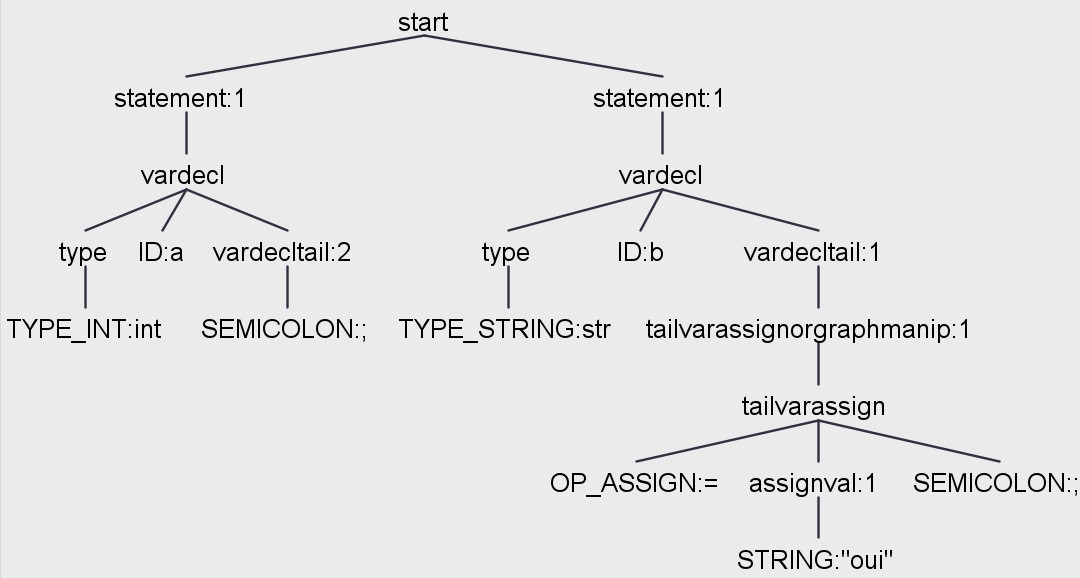
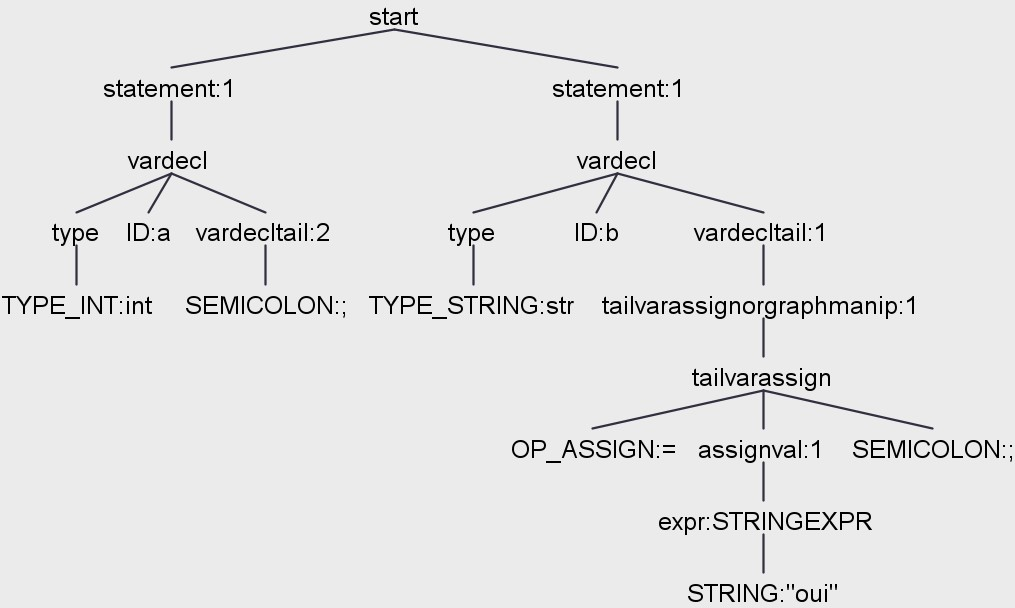
Changes to the grammar section

Changed region(s): [[0.3665, 0.3114, 1.0, 0.9965], [0.0, 0.0, 0.6719, 0.5917], [0.4887, 0.2491, 0.6719, 0.4671]]

diff --git a/sections/chapters/sands/grammar.tex b/sections/chapters/sands/grammar.tex
@@ -29,14 +29,14 @@ Statements can be variable declarations, variable assignments, graph manipulatio
 A variable is declared by writing its type followed by its name.
 After the variable declarations the statement can end with a semicolon or there can be a value assigned to the variable or a graph context can be opened.
 
-There need to be a global production rule for variable assignment, graph manipulation and relation statements because all three of those statements start with a variable identifier so having the rules be fully separated would mean that the grammar isn't LL(1).
+There needs to be a global production rule for variable assignment, graph manipulation and relation statements because all three of those statements start with a variable identifier so having the rules be fully separated would mean that it is not possible to know which production rule to apply with a look-ahead of only one token, which is necessary for the ANTLR tool to generate the parser.
 Once the variable for which we are writing the statement is specified, the rest of the statement can either correspond to an assignment, a block of code in a graph context or a relation statement.
 
 \begin{align*}
     \omit $\mathit{VarDecl}$ \hfil& \rightarrow \mathit{Type} \: \text{varId} \: \mathit{VarDeclTail} \\
     \omit $\mathit{VarDeclTail}$ \hfil & \rightarrow \mathit{TailVarAssignOrGraphManip} \\
     & \mid \text{semicolon} \\
-    \omit $\mathit{VarAssignOrGraphManip}$\hfil & \rightarrow \text{varId} \: \mathit{TailVarAssignOrGraphManip} \\
+    \omit $\mathit{VarAssignOrGraphManipOrAddRel}$\hfil & \rightarrow \text{varId} \: ( \mathit{TailVarAssignOrGraphManip} |  \mathit{TailAddRel})\\
     \omit $\mathit{TailVarAssignOrGraphManip}$ & \rightarrow \mathit{TailVarAssign} \\
     & \mid  \mathit{TailGraphManip}\ \\
     \omit $\mathit{Type}$ \hfil & \rightarrow \text{typeString} \\
@@ -49,20 +49,19 @@ Once the variable for which we are writing the statement is specified, the rest 
 
 \begin{figure}[H]
     \centering
-    \includegraphics[height = 5cm]{figures/parse_trees/parseTree_varDecl}
+    \includegraphics[height = 5.5cm]{figures/parse_trees/parseTree_varDecl}
     \caption{The parse tree for the statements \texttt{int a;
     str b = "oui";}}
     \label{fig:parseTree_varDecl}
 \end{figure}
 
 \subsubsection*{Variable assignment and arithmetic expressions}
-To assign a value to a variable, the variable name needs to be followed by the assignment operator and then the assigned value, which can be a string, a boolean value, an arithmetic expression with variables, numbers and function calls or simply a function call, a number or another variable.
+To assign a value to a variable, the variable name needs to be followed by the assignment operator and then the assigned value, which can be an arithmetic expression with variables, numbers, strings and function calls or a boolean expression.
 
 \begin{align*}
     \omit $\mathit{TailVarAssign}$ \hfil & \rightarrow \text{opAssign} \: \mathit{AssignVal} \: \text{semicolon} \\
-    \omit $\mathit{AssignVal}$ \hfil & \rightarrow \text{string} \\
-    & \mid \mathit{Expr} \\
-    & \mid \mathit{BoolVal}\\
+    \omit $\mathit{AssignVal}$ \hfil & \mid \mathit{Expr} \\
+    & \mid \mathit{BoolExpr}\\
     \omit $\mathit{Expr}$ \hfil & \rightarrow \text{opSub} \: \mathit{Expr} \\
     & \mid \mathit{Expr} \: \mathit{MulOp} \: \mathit{Expr} \\
     & \mid \mathit{Expr} \: \mathit{AddOp} \: \mathit{Expr} \\
@@ -71,8 +70,7 @@ To assign a value to a variable, the variable name needs to be followed by the a
     & \mid \text{varId} \\
     & \mid \mathit{FuncCall} \\
     & \mid \text{KeywordFmap} \: \text{varId} \: \text{varId} \\
-    \omit $\mathit{BoolVal}$ \hfil & \rightarrow \text{keywordTrue} \\
-    & \mid \text{keywordFalse} \\
+    & \mid \text{string} \\
     \omit $\mathit{Number}$ \hfil & \rightarrow \text{integer} \\
     & \mid \text{floatLit} \\
     \omit $\mathit{AddOp}$ \hfil & \rightarrow \text{opAdd} \\
@@ -84,12 +82,12 @@ To assign a value to a variable, the variable name needs to be followed by the a
 \captionedgrammar{Rules for variable assignment and arithmetic expressions}
 
 This definition of the grammar has a lot of rules but doesn't allow the precedence of arithmetic operations to be handled during the building of the parse tree and makes the grammar ambiguous.
-However, those rules allow us to have the desired behavior when we use the tool we have chosen for the implementation (\ref{TODO}).
+However, those rules allow us to have the desired behavior when we use the ANTLR recognizer because the different possibilities don't have the same priority, instead the order in which they appear defines the order of priority.
 
 \begin{figure}[H]
     \centering
-    \includegraphics[height = 8cm]{figures/parse_trees/parseTree_varAssign}
-    \caption{The parse tree for a variable assignment :  \texttt{a = 4 + (5-2-4)*n;} \\The tool used handled the operation precedence.}
+    \includegraphics[height = 9cm]{figures/parse_trees/parseTree_varAssign}
+    \caption{The parse tree for a variable assignment :  \texttt{a = 4 + (5-2-4)*n;} \\The ANTLR recognizer used handled the operation precedence.}
     \label{fig:parseTree_varAssign}
 \end{figure}
 
@@ -108,7 +106,7 @@ Those might be graph-specific operations such as referencing or cloning a variab
 
 \begin{figure}[H]
     \centering
-    \includegraphics[height = 3.5cm]{figures/parse_trees/parseTree_graphManip}
+    \includegraphics[height = 5.5cm]{figures/parse_trees/parseTree_graphManip}
     \caption{The parse tree for some simple graph operations. The code parsed is \texttt{g\{
         ref a;
         ref b;
@@ -131,13 +129,30 @@ The if-else statement structure is quite classic.
 After the \texttt{if} keyword, a boolean expression is specified between parenthesis and then the block of code to execute is written between curly brackets.
 The following else clause is optional.
 
-\begin{lstlisting}[caption={test},captionpos=b, label={lst:teststuff}]
-    IfBlock
-\end{lstlisting}
+\begin{align*}
+    \omit $\mathit{IfBlock}$ \hfil &\rightarrow \mathit{IfClause} \: [\mathit{ElseClause}] \\
+    \omit $\mathit{IfClause}$ \hfil &\rightarrow \text{keywordIf} \: \text{leftParen} \: \mathit{BoolExpr} \: \text{rightParen} \: \text{leftBrace} \: \{ \mathit{statement}\} \: \text{rightBrace} \\
+    \omit $\mathit{ElseClause}$ \hfil &\rightarrow \text{keywordElse} \: \text{leftBrace} \: \{ \mathit{statement} \} \: \text{rightBrace} \\
+    \omit $\mathit{BoolExpr}$ \hfil &\rightarrow \text{opBNot} \: \mathit{BoolExpr} \\
+    & \mid \mathit{BoolExpr} \: \mathit{BoolOp} \: \mathit{BoolExpr} \\
+    & \mid \mathit{AssignVal} \: \mathit{CompOp} \: \mathit{AssignVal} \\
+    & \mid \text{leftParen} \: \mathit{BoolExpr} \: \text{RightParen} \\
+    & \mid \text{varID} \\
+    & \mid \mathit{FuncCall} \\
+    & \mid \mathit{BoolVal} \\
+    \omit $\mathit{BoolVal}$ \hfil & \rightarrow \text{keywordTrue} \\
+    & \mid \text{keywordFalse} \\
+    \omit $\mathit{BoolOp}$ \hfil &\rightarrow \text{opBAnd} \\
+    & \mid \text{opBOr} \\
+    \omit $\mathit{CompOp}$ \hfil & \rightarrow \text{opBEq} \\
+    & \mid \text{opBNeq} \\
+    & \mid \text{opBGrt}
+\end{align*}
+\captionedgrammar{Rules for if-else statements and boolean expressions}
 
 Since the boolean expression and the arithmetic expression are different, writing an arithmetic expression as the condition of an $\texttt{if}$ statement is a syntax error, not a type error that would be found by the type checker or a semantic error despite what some people might expect.
-This distinction also causes our grammar to be bigger complicating the implementation part.
-We still made the choice to write our grammar that way because the tool we use gives this grammar some redeeming qualities (\ref{TODO} (future ref))
+This distinction also causes our grammar to be bigger, complicating the implementation part.
+We still made the choice to write our grammar that way because this made the grammar ensure some type safety that didn't have to be implemented later and the ANLTR recognizer once again helped parse the inputs the correct way.
 
 \begin{figure}[H]
     \centering
@@ -180,7 +195,7 @@ The statement starts with the keyword \texttt{while} followed by the condition f
 
 \begin{figure}[H]
     \centering
-    \includegraphics[height = 5cm]{figures/parse_trees/parseTree_whileblock}
+    \includegraphics[height = 6.5cm]{figures/parse_trees/parseTree_whileblock}
     \caption{Parse tree for the following while statement with a more complex boolean expression that includes a function call : \texttt{while(c < 2 || !(isPrime(a)))\{
         a = 5;\}}}
     \label{fig:parseTree_whileblock}
